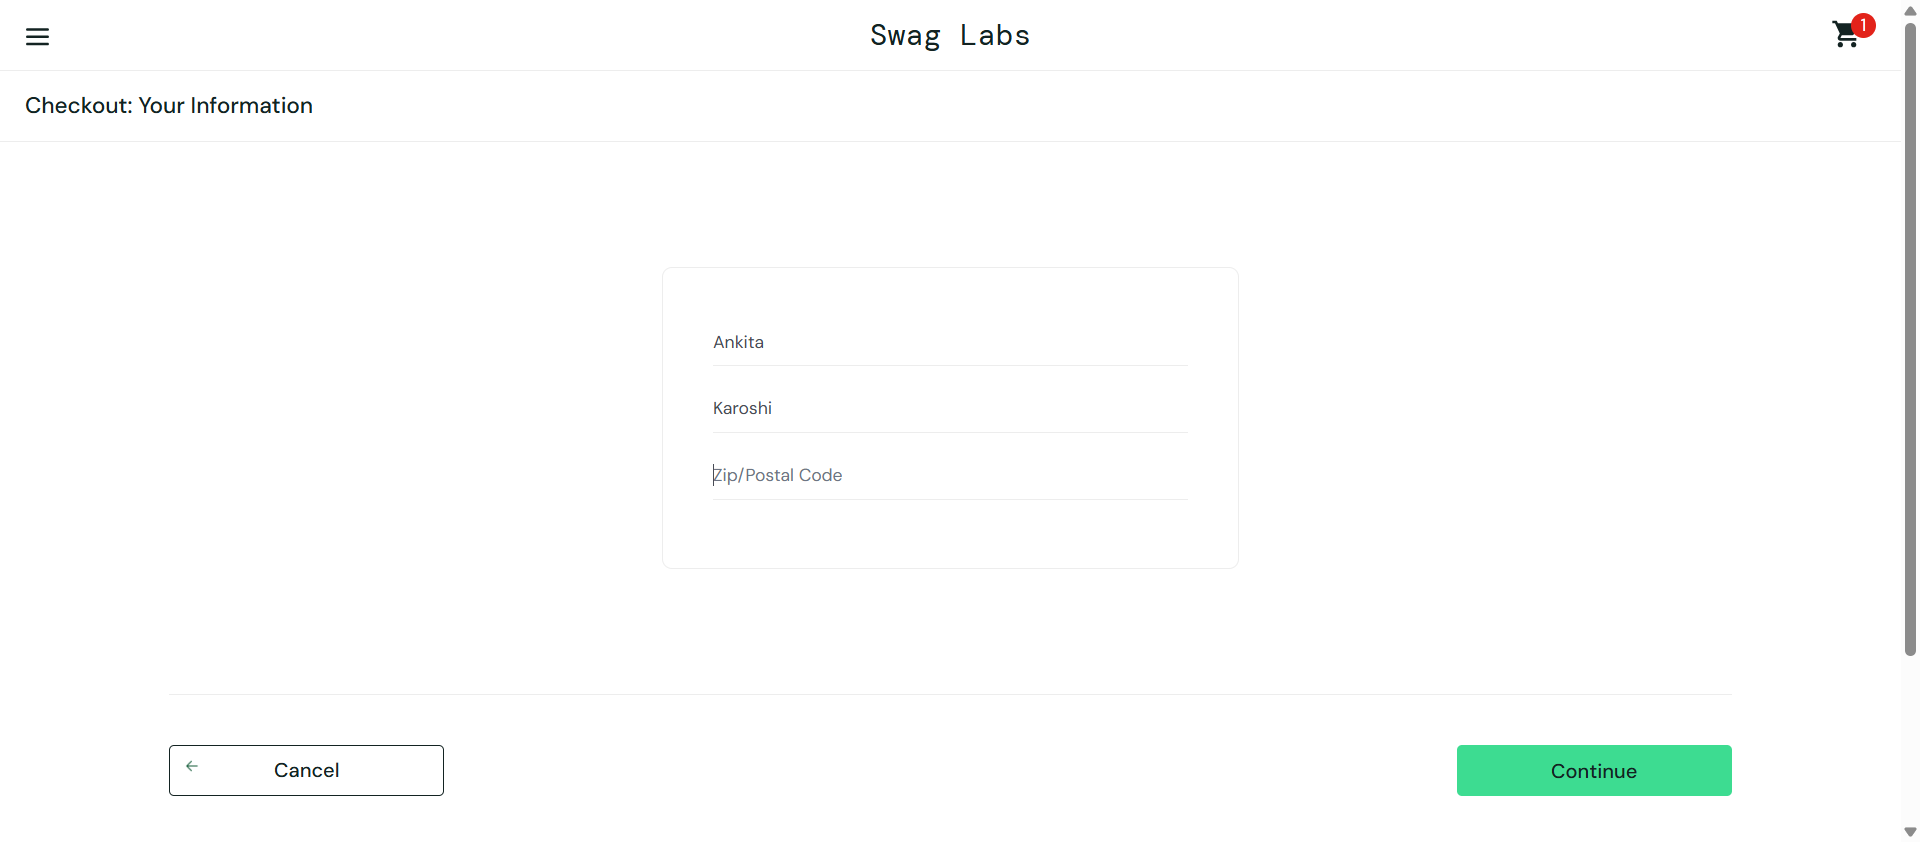
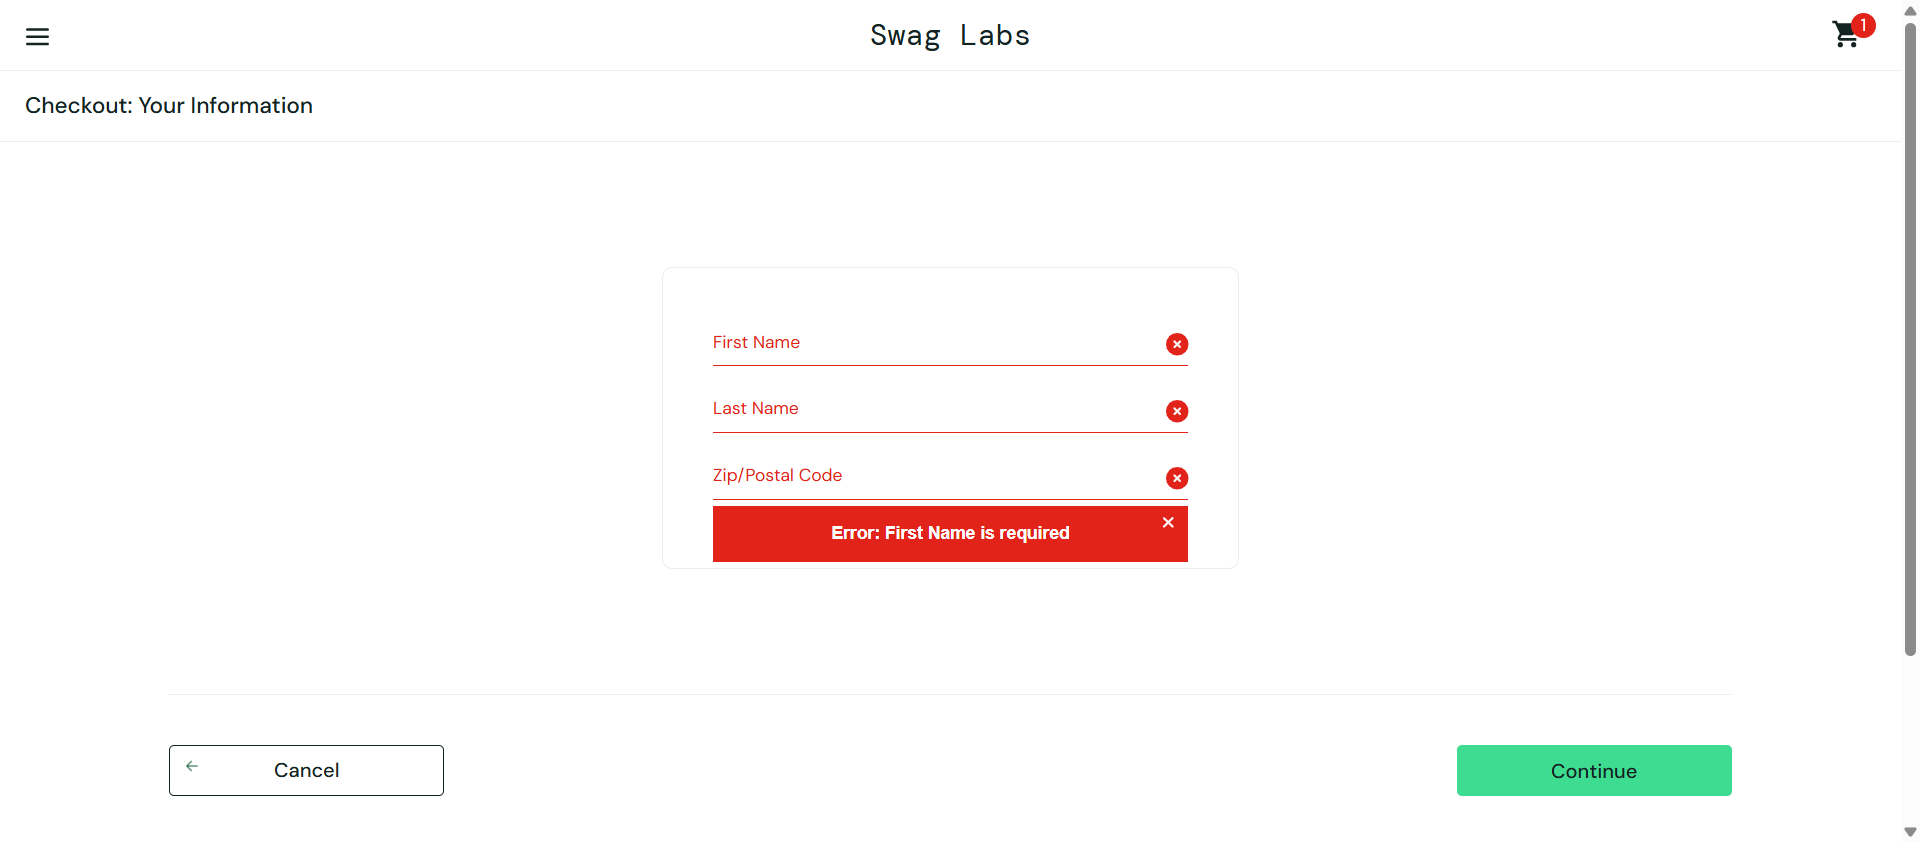
Fixed checkout flow and updated framework

diff --git a/src/test/java/com/automation/pages/CheckoutPage.java b/src/test/java/com/automation/pages/CheckoutPage.java
@@ -2,6 +2,8 @@ package com.automation.pages;
 
 import org.openqa.selenium.By;
 import org.openqa.selenium.WebDriver;
+import org.openqa.selenium.WebElement;
+
 import java.time.Duration;
 import org.openqa.selenium.support.ui.ExpectedConditions;
 import org.openqa.selenium.support.ui.WebDriverWait;
@@ -10,7 +12,9 @@ public class CheckoutPage {
 
     WebDriver driver;
 
-    By checkoutButton = By.id("checkout");
+	/*
+	 * By checkoutButton = By.id("checkout");
+	 */   
     By firstName = By.id("first-name");
     By lastName = By.id("last-name");
     By postalCode = By.id("postal-code");
@@ -20,52 +24,50 @@ public class CheckoutPage {
         this.driver = driver;
     }
 
-    public void clickCheckout() {
-
-        WebDriverWait wait =
-                new WebDriverWait(driver, Duration.ofSeconds(20));
-
-        wait.until(ExpectedConditions.elementToBeClickable(checkoutButton));
-
-        driver.findElement(checkoutButton).click();
-
-        System.out.println("Checkout button clicked");
-
-        System.out.println("Current URL : " + driver.getCurrentUrl());
-    }
+	/*
+	 * public void clickCheckout() {
+	 * 
+	 * WebDriverWait wait = new WebDriverWait(driver, Duration.ofSeconds(20));
+	 * 
+	 * wait.until(ExpectedConditions.elementToBeClickable(checkoutButton));
+	 * 
+	 * driver.findElement(checkoutButton).click();
+	 * 
+	 * System.out.println("Checkout button clicked");
+	 * 
+	 * System.out.println("Current URL : " + driver.getCurrentUrl()); }
+	 */
     
-    public void enterCustomerDetails(String fName, String lName, String zip) throws InterruptedException {
+    public void enterCustomerDetails(String fName, String lName, String zip) {
 
-        WebDriverWait wait =
-                new WebDriverWait(driver, Duration.ofSeconds(10));
+        WebDriverWait wait = new WebDriverWait(driver, Duration.ofSeconds(10));
 
-        wait.until(ExpectedConditions.visibilityOfElementLocated(firstName));
+        WebElement first = wait.until(ExpectedConditions.visibilityOfElementLocated(firstName));
+        WebElement last = wait.until(ExpectedConditions.visibilityOfElementLocated(lastName));
+        WebElement postal = wait.until(ExpectedConditions.visibilityOfElementLocated(postalCode));
 
-        driver.findElement(firstName).sendKeys(fName);
-        driver.findElement(lastName).sendKeys(lName);
-        driver.findElement(postalCode).sendKeys(zip);
+        first.clear();
+        first.sendKeys(fName);
 
-        System.out.println("First Name : " +
-                driver.findElement(firstName).getAttribute("value"));
+        last.click();
+        last.clear();
+        last.sendKeys(lName);
 
-        System.out.println("Last Name : " +
-                driver.findElement(lastName).getAttribute("value"));
+        postal.click();
+        postal.clear();
+        postal.sendKeys(zip);
 
-        System.out.println("Zip : " +
-                driver.findElement(postalCode).getAttribute("value"));
+        System.out.println("First Name : " + first.getAttribute("value"));
+        System.out.println("Last Name : " + last.getAttribute("value"));
+        System.out.println("Zip : " + postal.getAttribute("value"));
 
-        driver.findElement(continueButton).click();
+        WebElement continueBtn = wait.until(
+                ExpectedConditions.elementToBeClickable(continueButton));
 
-        Thread.sleep(3000);
+        continueBtn.click();
 
-        System.out.println("URL After Continue : "
-                + driver.getCurrentUrl());
+        wait.until(ExpectedConditions.urlContains("checkout-step-two.html"));
 
-        System.out.println("Error Count : "
-                + driver.findElements(By.cssSelector("[data-test='error']")).size());
-
-        if(driver.findElements(By.cssSelector("[data-test='error']")).size() > 0) {
-            System.out.println(driver.findElement(By.cssSelector("[data-test='error']")).getText());
-        }
+        System.out.println("Moved to Step Two");
     }
-       }
+}

diff --git a/src/test/java/com/automation/tests/AddToCartTest.java b/src/test/java/com/automation/tests/AddToCartTest.java
@@ -11,6 +11,8 @@ import com.automation.pages.LoginPage;
 import com.automation.pages.ProductsPage;
 import org.openqa.selenium.By;
 
+
+
 public class AddToCartTest extends BaseTest {
 
     @Test
@@ -29,20 +31,15 @@ public class AddToCartTest extends BaseTest {
                 cart.getProductName(),
                 "Sauce Labs Backpack");
 
+        cart.clickCheckout();
+
         CheckoutPage checkout = new CheckoutPage(driver);
 
-        checkout.clickCheckout();
-        System.out.println("URL after checkout click : "
-                + driver.getCurrentUrl());
-
-        checkout.enterCustomerDetails (
+        checkout.enterCustomerDetails(
                 "Ankita",
                 "Karoshi",
                 "560001");
-        
-        System.out.println("After Continue URL: " + driver.getCurrentUrl());
-
-        Thread.sleep(3000);
+  
         
         FinishPage finish = new FinishPage(driver);
         System.out.println(driver.getCurrentUrl());

diff --git a/src/test/java/com/automation/pages/CartPage.java b/src/test/java/com/automation/pages/CartPage.java
@@ -2,6 +2,9 @@ package com.automation.pages;
 
 import org.openqa.selenium.By;
 import org.openqa.selenium.WebDriver;
+import java.time.Duration;
+import org.openqa.selenium.support.ui.ExpectedConditions;
+import org.openqa.selenium.support.ui.WebDriverWait;
 
 public class CartPage {
 
@@ -18,5 +21,19 @@ public class CartPage {
 
         return driver.findElement(productName)
                      .getText();
+    }
+    By checkoutButton = By.id("checkout");
+
+    public void clickCheckout() {
+
+        WebDriverWait wait =
+                new WebDriverWait(driver, Duration.ofSeconds(10));
+
+        wait.until(ExpectedConditions.elementToBeClickable(checkoutButton))
+                .click();
+
+        wait.until(ExpectedConditions.urlContains("checkout-step-one.html"));
+
+        System.out.println("Navigated to Checkout Step One");
     }
 }
